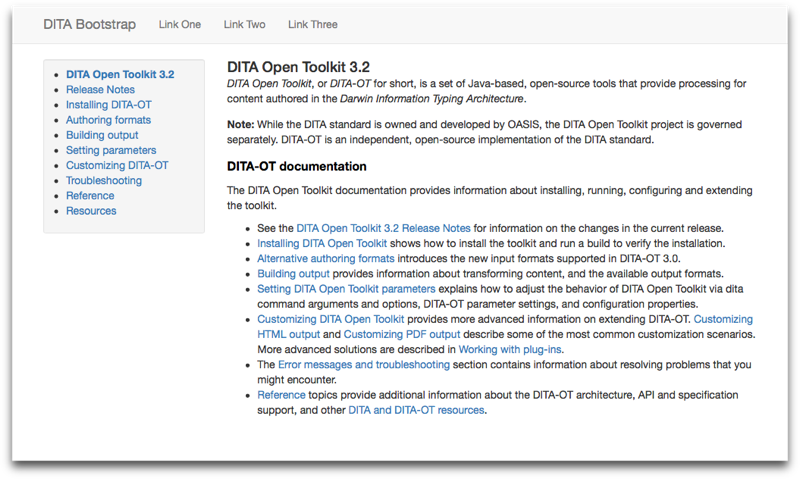
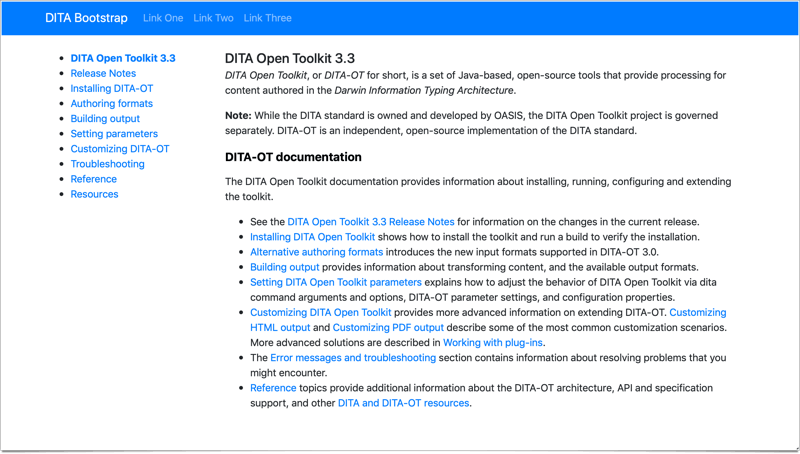
Update ReadMe for 3.3 release

diff --git a/README.md b/README.md
@@ -17,11 +17,11 @@ A plug-in for [DITA Open Toolkit][1] that extends the default HTML5 output with 
 
 Use the `dita` command to add this plug-in to your DITA Open Toolkit installation:
 
-DITA-OT 3.2:
+DITA-OT 3.3:
 
     dita --install net.infotexture.dita-bootstrap
 
-DITA-OT 3.1 and older:
+DITA-OT 3.2 and older:
 
     dita --install https://github.com/infotexture/dita-bootstrap/archive/3.1.zip
 
@@ -58,15 +58,15 @@ For more extensive customizations, you may want to [fork][5] this repository and
 
 - If you find this useful and build something of your own on top of it, [let me know][6].
 
-- If you find a bug or would like to suggest a change, [create an issue][7].  
+- If you find a bug or would like to suggest a change, [create an issue][7].
   _(If it's a bug, provide steps to recreate the issue.)_
 
 - If you know how to fix it yourself, [submit a pull request][8] with the proposed changes.
 
 [1]: http://www.dita-ot.org
 [2]: https://getbootstrap.com/docs/3.3
-[3]: https://github.com/infotexture/dita-bootstrap/blob/3.1/includes/bs-navbar-inverse.hdr.xml
-[4]: https://github.com/infotexture/dita-bootstrap/blob/3.1/css/custom.css
+[3]: https://github.com/infotexture/dita-bootstrap/blob/master/includes/bs-navbar-inverse.hdr.xml
+[4]: https://github.com/infotexture/dita-bootstrap/blob/master/css/custom.css
 [5]: https://help.github.com/articles/fork-a-repo/
 [6]: https://twitter.com/infotexture
 [7]: https://github.com/infotexture/dita-bootstrap/issues/new
